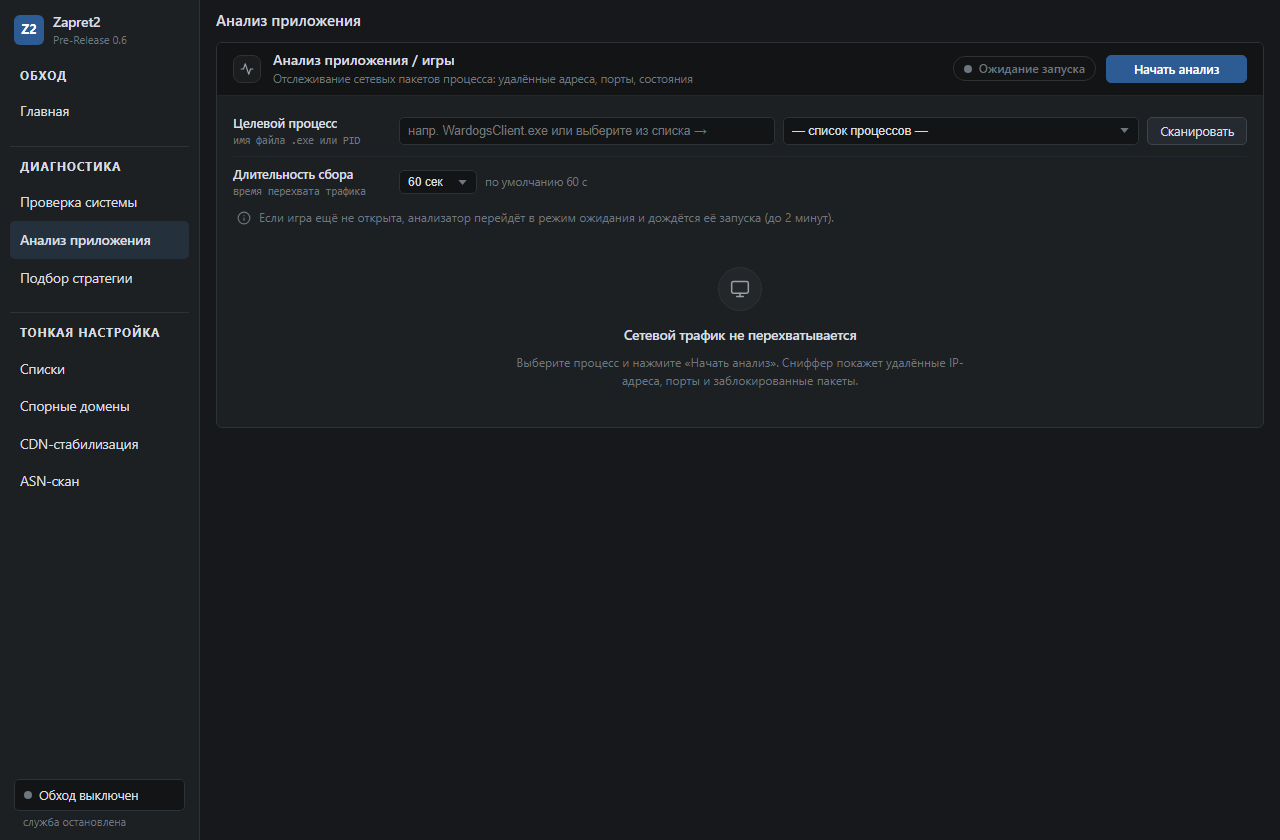
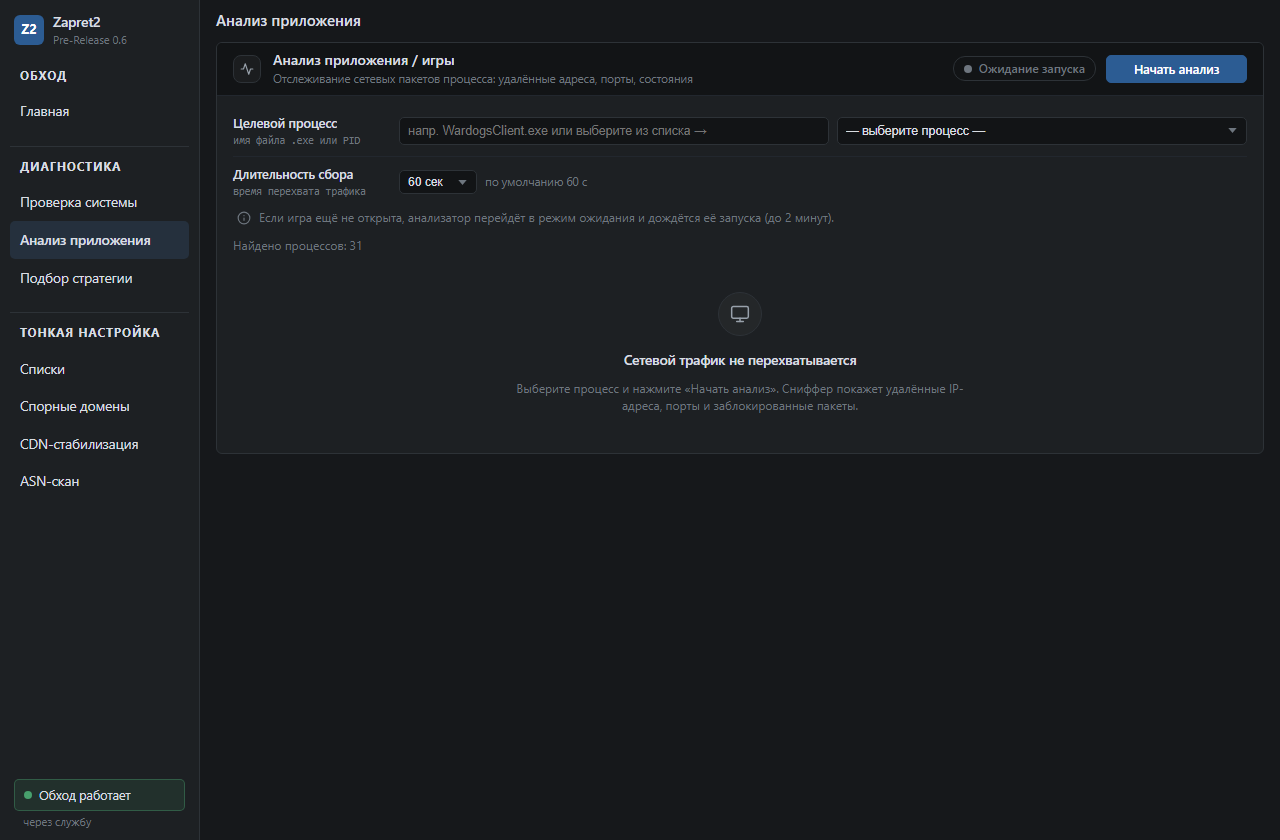
probe: manual scan button restored (full-size), auto-scan once, PS RemoteSigned instead of Bypass (AV fingerprint)

diff --git a/frontend/js/app.js b/frontend/js/app.js
@@ -269,6 +269,11 @@ const App = {
     if (hash === 'asn') AsnPage.init();
     if (hash === 'diagnostics') DiagnosticsPage.onShow();
     if (hash === 'tester') TesterPage.onShow();
+    // Список процессов заполняем сами при открытии вкладки — ручная
+    // кнопка «Сканировать» не нужна, интерфейс не дублирует действия.
+    if (hash === 'probe' && !TesterPage._probePollTimer && !TesterPage._probeStarting) {
+      TesterPage.scanProbeProcesses(true);
+    }
   },
 
   async loadVersion() {
@@ -2603,6 +2608,7 @@ const TesterPage = {
   _probeStartAt: 0,
   _probeDuration: 60,
   _probeTimer: null,
+  _probeScanned: false,
 
   _setProbeState(text, cls) {
     const chip = $('probeState');
@@ -2616,11 +2622,12 @@ const TesterPage = {
     txt.textContent = text;
   },
 
-  async scanProbeProcesses() {
+  async scanProbeProcesses(quiet) {
+    if (quiet && this._probeScanned) return;
     const btn = $('probeScanBtn');
     const statusEl = $('probeStatus');
     if (statusEl) { statusEl.hidden = false; statusEl.textContent = 'Сканирование процессов…'; statusEl.className = 'probe-status'; }
-    btn.disabled = true;
+    if (btn) btn.disabled = true;
     try {
       const r = await apiPost('/process-probe/scan', {});
       if (r.status !== 'ok') throw new Error(r.message || 'ошибка');
@@ -2642,13 +2649,14 @@ const TesterPage = {
         sel.appendChild(o);
       }
       const total = (r.processes || []).length;
+      this._probeScanned = true;
       if (statusEl) { statusEl.textContent = `Найдено процессов: ${total}`; statusEl.className = 'probe-status'; }
-      showToast(`Найдено процессов: ${total}`, 'ok');
+      if (!quiet) showToast(`Найдено процессов: ${total}`, 'ok');
     } catch (e) {
       if (statusEl) { statusEl.textContent = 'Ошибка: ' + (e.message || e); statusEl.className = 'probe-status st-err'; }
-      showToast('Сканирование: ' + (e.message || e), 'error');
+      if (!quiet) showToast('Сканирование: ' + (e.message || e), 'error');
     }
-    btn.disabled = false;
+    if (btn) btn.disabled = false;
   },
 
   _probeTick() {

diff --git a/test_policy.py b/test_policy.py
@@ -1,0 +1,21 @@
+import subprocess
+
+script = (
+    "$c = Get-NetTCPConnection -ErrorAction SilentlyContinue | "
+    "Where-Object { $_.RemoteAddress -and $_.RemoteAddress -ne '0.0.0.0' "
+    "-and $_.RemoteAddress -ne '::' } | ForEach-Object { $_.OwningProcess }; "
+    "$u = Get-NetUDPEndpoint -ErrorAction SilentlyContinue | "
+    "Where-Object { $_.RemoteAddress -and $_.RemoteAddress -ne '0.0.0.0' "
+    "-and $_.RemoteAddress -ne '::' } | ForEach-Object { $_.OwningProcess }; "
+    "$pids = @($c + $u) | Sort-Object -Unique; "
+    "if (-not $pids) { '[]'; exit }; "
+    "Get-Process -Id $pids -ErrorAction SilentlyContinue | "
+    "Select-Object ProcessName,Id,MainWindowTitle | Sort-Object ProcessName | "
+    "ConvertTo-Json -Compress"
+)
+for policy in ('RemoteSigned', 'Bypass'):
+    r = subprocess.run(['powershell', '-NoProfile', '-ExecutionPolicy', policy, '-Command', script],
+                       capture_output=True, text=True, encoding='oem', errors='replace', timeout=25)
+    print(f'--- policy={policy} rc={r.returncode}')
+    print('OUT:', r.stdout[:160].replace('\n', ' | '))
+    print('ERR:', r.stderr[:160].replace('\n', ' | '))

diff --git a/core/process_probe.py b/core/process_probe.py
@@ -18,7 +18,10 @@ from typing import Optional
 
 import core.utils as utils
 
-PS_BASE = ["powershell", "-NoProfile", "-ExecutionPolicy", "Bypass", "-Command"]
+# RemoteSigned (а не Bypass): скрипты — read-only Get-* cmdlets, политика их не
+# трогает, а флаг Bypass — классический эвристический паттерн для AV/EDR.
+# Проверено 2026-09-12: вывод идентичен Bypass на всех вызовах _ps/_ps_json.
+PS_BASE = ["powershell", "-NoProfile", "-ExecutionPolicy", "RemoteSigned", "-Command"]
 
 _PRIVATE_RE = re.compile(
     r"^(192\.168\.|10\.|172\.(1[6-9]|2[0-9]|3[01])\.|127\.|0\.|169\.254\.|224\.|239\.|255\.)")
